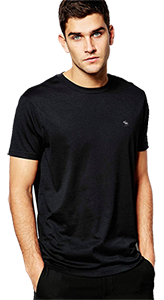
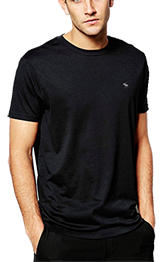
changed image

diff --git a/styles/styles.css b/styles/styles.css
@@ -16,11 +16,12 @@ body{
 }
 /*Styleing send button*/
 
-#woman_logo
+#woman_image
 {
 	display: inline;
-	height: 50%;
-	width: 50%;
+	height: 110%;
+	width: 120%;
+	margin-top: 5%;
 }
 
 .btn {
